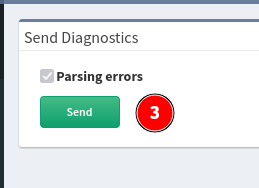
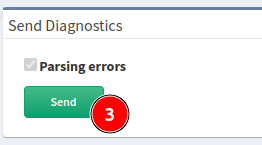
ST-198 Update images in 'Troubleshooting Vague Messages' and other improvements

Changed region(s): [[0.0, 0.0, 1.0, 1.0], [0.4942, 0.4966, 0.6795, 0.7172]]

diff --git a/docs/IP_Fabric_GUI/tips/vague_messages.md b/docs/IP_Fabric_GUI/tips/vague_messages.md
@@ -1,33 +1,42 @@
 ---
-description: This section contains information how to troubleshoot errors with vague description in IP Fabric's GUI.
+description: This section suggests how to troubleshoot vague errors shown in the IP Fabric GUI.
 ---
 
 # Troubleshooting Vague Messages
 
-IP Fabric error messages are not always eloquent and vague message like **Invalid Input** can be displayed:
+IP Fabric error messages are not always eloquent and vague ones like `Invalid
+Input` can be displayed:
 
-![invalid input](invalid_input.png)
+![Invalid Input](vague_messages/invalid_input.png)
 
-If you do not know what exactly went wrong, more descriptive messages can be excerpt from API response received on the background.
+If you do not know what exactly went wrong, you can get more descriptive
+messages from API responses received in the background.
 
-These messages can be found in developer console of the browser.
+These messages can be found in the developer console of your browser.
 
-Hit `F12` or click in top right corner on hamburger menu in your browser, go to **More tools --> Web Developer Tools** and something similar will appear:
+Press `F12` or click the hamburger menu in the top-right corner of your browser
+and go to **More tools --> Web Developer Tools**. Something similar should
+appear:
 
-![f12_console](f12_firefox.png)
+![Web Developer Tools in Firefox](vague_messages/f12_firefox.png)
 
 !!! info
 
-    The console may look differently in your browser but functionality and tabs should be the same. This example is from Mozilla Firefox.
+    The console may look differently in your browser, but the functionality and
+    tabs should be the same. This example is from Mozilla Firefox.
 
-Go to the `Network` tab and repeat the action which raised the error message, the API calls from your browser should be visible.
+Go to the `Network` tab and repeat the action which raised the error message,
+API calls should appear in the tab.
 
-When selecting a response from the server with `error code` (usually ones in red colors) go to tab **Response** and in the **errors** section should be an explanation why the **Invalid input** message was displayed:
+After clicking a response from IP Fabric with an error code (usually the ones in
+red color), go to the `Response` tab and in the `errors` section, you should
+find an explanation why the `Invalid Input` message appeared:
 
-![response](response.png)
+![Response tab](vague_messages/response.png)
 
 !!! example
 
-    In the example above the error message was thrown because restrictred characters were present in Jumphost's `password` field:
+    In our example, the error message was thrown because restricted characters
+    were present in the jumphost's `Password` field:
 
-    ![example](example.png)
+    ![Jumphost example](vague_messages/example.png)

diff --git a/docs/IP_Fabric_GUI/tips/search.md b/docs/IP_Fabric_GUI/tips/search.md
@@ -1,11 +1,11 @@
 ---
-description: In this section, we give you a tip on how to use the search function efficiently.
+description: In this section, we provide tips on how to use the search function efficiently.
 ---
 
 # Searching
 
-The user interface includes numerous views which cover a range of technologies. To find a specific page or a technology table, use the Search function located in the left panel.
+The user interface includes numerous views which cover a range of technologies. To find a specific page or technology table, use the **Search** bar located in the left panel.
 
-IP Fabric provides quick navigation for its technology tables rather than supporting a full-text search for all database values. For example, the search does not return results for "1500", but searching for "MTU" will return the appropriate technology view, which can then be filtered for specific MTU values. Similarly, the search will not return results for an IP address, however first looking for hosts or endpoints or devices will point to the right technology view, which can then be filtered for specific search intent.
+IP Fabric provides a quick navigation to its technology tables rather than supporting full-text search for all database values. For example, the search does not return results for `1500`, but searching for `MTU` will return the appropriate technology view, which can be then filtered for specific MTU values. Similarly, the search will not return results for an IP address, however looking for hosts, endpoints or devices first will point to the right technology view, which can be then filtered for a specific search intent.
 
-![search](search.png)
+![Search bar](search.png)

diff --git a/docs/Getting_Started/Overview/How_Discovery_Works/CLI_discovery.md b/docs/Getting_Started/Overview/How_Discovery_Works/CLI_discovery.md
@@ -44,10 +44,9 @@ After a successful login, discovery reads the network protocol state tables and 
 
 This is how the discovery process continues after a successful connection to a network device:
 
-1.  IP Fabric looks at LLDP/CDP and other neighbor protocols of the discovered device and tries to connect to those devices
-2.  IP Fabric tries to connect to a next-hop device from the routing table
-
-3.  IP Fabric uses the device's ARP table to find hosts and other network devices it can connect to with the help of the OUI table (in **Settings --> Discovery & Snapshots --> Global Configuration --> OUI**)
+1.  IP Fabric looks at LLDP/CDP and other neighbor protocols of the discovered device and tries to connect to those devices.
+2.  IP Fabric tries to connect to a next-hop device from the routing table.
+3.  IP Fabric uses the device's ARP table to find hosts and other network devices it can connect to with the help of the **OUI** table (in **Settings --> Discovery & Snapshots --> Global Configuration --> OUI**).
 4.  Traceroute is attempted for each unknown connected router from the discovered networks in the routing table.
 
 Discovery then collects the detailed network state and information from every discovered device for every supported running protocol. All collected data is timestamped at the reading time and the timestamps are used to calculate the rate of change for each element.

diff --git a/docs/IP_Fabric_Settings/Discovery_and_Snapshots/snapshot_retention.md b/docs/IP_Fabric_Settings/Discovery_and_Snapshots/snapshot_retention.md
@@ -13,24 +13,24 @@ in **Settings --> Discovery & Snapshots --> Snapshot Retention --> Create Snap
 Here is an example for an automatic discovery run at **10 minutes past
 every hour** (0:10; 1:10; 2:10; 3:10, etc.).
 
-![Timed Snapshots](snapshot_retention/102564017.png)
+![Create Snapshots Periodically](snapshot_retention/create_snapshots_periodically.png)
 
-### How Scheduling Work In IPF
+### How Scheduling Works In IPF
 
 Let's assume that snapshot is scheduled for every hour and snapshot
 takes 4h:20min to be created, then the next snapshot will be scheduled
 once the previous snapshot finishes. The scheduled time will be set at
 the next possible period according to the cron setup.
 
-![Timed Snapshots](snapshot_retention/1405059074.jpg)
+![Cron Setup](snapshot_retention/cron_setup.jpg)
 
-##  Snapshot Retention Rules
+## Snapshot Retention Rules
 
 In version `4.1`, we added support for various snapshot retention policies.
 
 ![Snapshot Retention Rules](snapshot_retention/snapshot_retention_rules.png)
 
-### How Does the Snapshot Retention Work
+### How Snapshot Retention Works
 
 It works in two steps:
 
@@ -60,4 +60,5 @@ Please note:
     actions will be added in coming releases
 
 !!! info
-    At the moment, snapshot retention runs everyday at 0:00 UTC time
+
+    At the moment, snapshot retention runs everyday at 0:00 UTC time.

diff --git a/docs/Getting_Started/Platform_First_Steps/00-quick_start.md b/docs/Getting_Started/Platform_First_Steps/00-quick_start.md
@@ -75,10 +75,10 @@ the [Configuration Wizard](04-configuration_wizard.md) which will guide you
 through the process of adding device credentials, discovery seeds, networks
 to include/exclude in discovery and Advanced CLI settings.
 
-If you would like to change or edit these settings after initial configuration,
-please see [IP Fabric Settings](../../IP_Fabric_Settings/integration/api_tokens.md). Alternatively, there
+If you would like to change these settings after initial configuration,
+please see [IP Fabric Settings](../../IP_Fabric_Settings/configuration_management.md). Alternatively, there
 are also
-[Snapshot Specific Settings](../../IP_Fabric_GUI/discovery_snapshot.md#snapshot-specific-settings)
+[snapshot-specific settings](../../IP_Fabric_GUI/discovery_snapshot.md#snapshot-specific-settings)
 which are useful for testing small changes prior to changing Global Settings.
 
 !!! note "Site Separation"

diff --git a/docs/IP_Fabric_GUI/discovery_snapshot.md b/docs/IP_Fabric_GUI/discovery_snapshot.md
@@ -62,7 +62,7 @@ A new device can be added to an already-existing snapshot by clicking the `Add D
 This might be desirable if you performed almost a full snapshot of the network, but only few devices were not included or had connectivity issues that were later resolved (for example wrong AAA configuration, firewall rules, forgot to include a
 network seed, etc).
 
-When adding a new device to an existing snapshot, the [snapshot-specific setting](#snapshot-specific-settings)
+When adding a new device to an existing snapshot, the [snapshot-specific settings](#snapshot-specific-settings)
 will be applied. If you need to change some settings (for example add a new network seed, login credentials, etc.) in order to add a new device to an existing snapshot, you will need to first change the settings for that particular snapshot and
 then add a new device.
 

diff --git a/docs/IP_Fabric_GUI/global_filter.md b/docs/IP_Fabric_GUI/global_filter.md
@@ -24,12 +24,12 @@ The options for filtering are:
 
 ![Select attribute](global_filter/select_attribute.png)
 
-In this example, we will be filtering on `siteName` with the value `35COLO`.
+In this example, we are filtering on `siteName` with the value `35COLO`.
 
 ![Select value(s) for siteName](global_filter/select_values_for_sitename.png)
 
-View the **Device Inventory** table (in **Inventory --> Devices**) filtered to
-show only devices from the Site `35COLO`.
+In **Inventory --> Devices**, we can see that the **Device Inventory** table is
+filtered to show only devices from the Site `35COLO`.
 
 ![siteName 35COLO selected](global_filter/sitename_selected.png)
 

diff --git a/docs/support/index.md b/docs/support/index.md
@@ -39,9 +39,11 @@ To send that diagnostic data to the IP Fabric team, select **Send Diagnostics** 
 
 ![Diagnostics](diagnostics.png)
 
-Then check the **Parsing Errors** option and hit **Send**:
+and click **Send**:
 
 ![Parsing Errors](parsing.png)
+
+(the `Parsing errors` option should be selected by default)
 
 ## Contact
 
